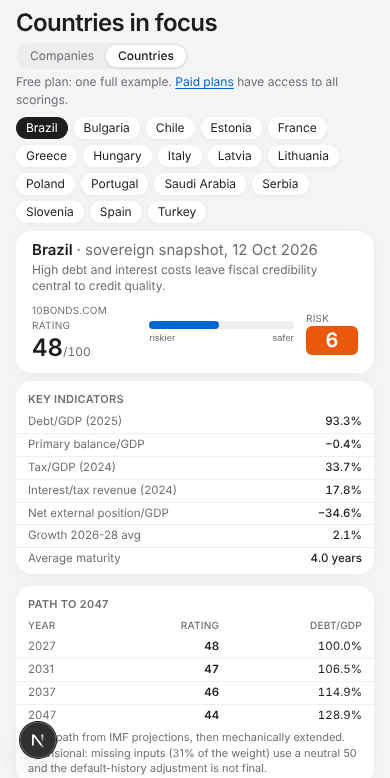
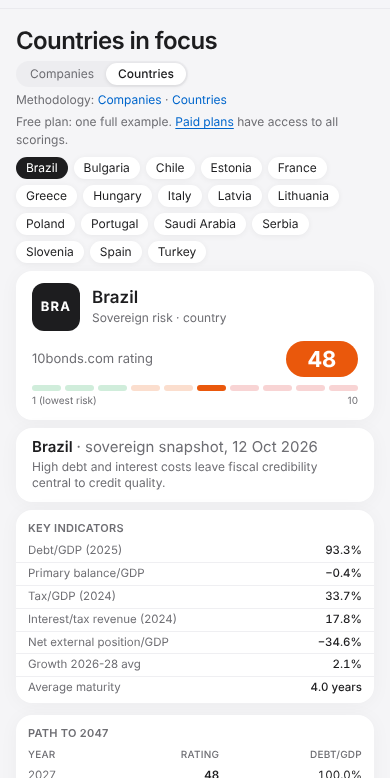
Rating highlight (oval + 1-10 scale) on country and company pages, one shared layout; refresh carousel country picture
Claude-Session: https://claude.ai/code/session_017ZNMD7A72R8vhZW5ZS7b4r

Changed region(s): [[0.0308, 0.401, 0.9231, 1.0], [0.0308, 0.0, 0.8615, 0.4627], [0.4615, 0.8021, 0.4923, 0.8329]]

diff --git a/components/CompanyFocus.tsx b/components/CompanyFocus.tsx
@@ -1,61 +1,23 @@
 import Link from "next/link";
-import FocusTabs from "@/components/FocusTabs";
-import { RiskBadge } from "@/components/RiskBadge";
+import FocusShell, { card, head } from "@/components/FocusShell";
 import { COMPANIES_IN_FOCUS, type FocusCompany } from "@/lib/companiesInFocus";
 
-const card = "overflow-hidden rounded-2xl bg-white shadow-[0_2px_20px_rgba(0,0,0,0.04)]";
-const head = "px-3 pb-1 pt-2.5 text-[11px] font-semibold uppercase tracking-wide text-mute";
 const td = "px-3 py-[3px] align-top";
 
-/** Risk assessment page body: the company tabs, the headline facts and the full scoring (paid plans, or the free example). */
+/** Risk assessment, companies: same layout as the country pages, with the corporate dimensions. */
 export default function CompanyFocus({ c, paid }: { c: FocusCompany; paid: boolean }) {
-  const open = paid || c.free === true;
-  const stats: [string, React.ReactNode][] = [
-    ["Credit score", <span key="s" className="text-xl font-semibold tabular-nums">{c.score}<span className="text-[12px] font-normal text-mute">/100</span></span>],
-    ["Risk", <RiskBadge key="r" risk={c.risk} size="lg" />],
-    ["Our view", c.view],
-    ["Return (per year), gross", c.ytm],
-    ["Outlook", c.outlook],
-    ["Seniority", c.seniority],
-    ["Maturity", c.maturity],
-  ];
+  const nav = COMPANIES_IN_FOCUS.map((x) => ({ key: x.isin, href: `/risk-assessment/${x.isin}`, label: x.name, current: x.isin === c.isin, locked: !x.free, free: x.free }));
   return (
-    <article className="mx-auto max-w-6xl" data-testid="company-focus">
-      <div className="mt-1 flex flex-wrap items-baseline gap-x-4 gap-y-1">
-        <h1 className="text-2xl font-semibold tracking-tight">Companies in focus</h1>
-        <FocusTabs active="companies" />
-        <p className="text-[12px] text-mute">Free plan: one full example. <Link href="/pricing" className="text-accent hover:underline">Paid plans</Link> have access to all scorings.</p>
-      </div>
-      <nav className="mt-2 flex flex-wrap gap-1.5 text-[12px]" aria-label="Companies">
-        {COMPANIES_IN_FOCUS.map((x) => (
-          <Link key={x.isin} href={`/risk-assessment/${x.isin}`} data-testid="focus-tab"
-            className={`rounded-full px-3 py-1 ${x.isin === c.isin ? "bg-ink text-white" : "bg-white text-ink shadow-[0_1px_6px_rgba(0,0,0,0.06)] hover:bg-line/40"}`}>
-            {x.name}{!paid && !x.free ? " 🔒" : x.free && !paid ? " · free" : ""}
-          </Link>
-        ))}
-      </nav>
-
-      <section className={`${card} mt-2 px-4 py-2`}>
-        <p className="text-[15px] font-semibold leading-tight">{c.name} <span className="font-normal text-mute">· {c.isin} · {c.issuer} · updated {c.updated}</span> <Link href={`/report/${c.isin}`} className="ml-1 text-[12px] font-normal text-accent hover:underline">Full report</Link></p>
-        <dl className="mt-1.5 grid grid-cols-2 gap-x-5 gap-y-1.5 sm:grid-cols-4 lg:grid-cols-7">
-          {stats.map(([k, v]) => (
-            <div key={k} className="min-w-0">
-              <dt className="text-[10px] uppercase tracking-wide text-mute">{k}</dt>
-              <dd className="flex h-7 items-center text-[13px] font-medium leading-tight">{v}</dd>
-            </div>
-          ))}
-        </dl>
-        <p className="mt-1 text-[12px] leading-snug text-mute">{open ? c.summary : `Main risks: ${c.risksShort}.`}</p>
-      </section>
-
-      {open ? <Body c={c} /> : (
-        <section className={`${card} mt-3 px-4 py-6 text-center`} data-testid="focus-locked">
-          <p className="text-[15px] font-medium">The full {c.name} scoring is on paid plans</p>
-          <p className="mt-1 text-[12px] text-mute">Terms, prices, financials, credit scorecard, tax and our view for every company in focus.</p>
-          <Link href="/pricing" className="mt-3 inline-block rounded-full bg-accent px-5 py-2 text-[13px] font-medium text-white">See plans</Link>
-        </section>
-      )}
-    </article>
+    <FocusShell kind="companies" testId="company-focus" nav={nav} paid={paid} open={paid || c.free === true}
+      header={{ tile: c.name.slice(0, 4).toUpperCase(), name: c.issuer, sub: `${c.name} · ${c.isin}`, score: c.score, risk: c.risk }}
+      snapshot={{
+        title: <>{c.name} <span className="font-normal text-mute">· corporate snapshot, {c.updated}</span> <Link href={`/report/${c.isin}`} className="ml-1 text-[12px] font-normal text-accent hover:underline">Full report</Link></>,
+        text: paid || c.free ? c.summary : `Main risks: ${c.risksShort}.`,
+      }}
+      lockedTitle={`The full ${c.name} scoring is on paid plans`}
+      lockedText="Key financials, credit scorecard, terms, tax and our view for every company in focus.">
+      <Body c={c} />
+    </FocusShell>
   );
 }
 
@@ -75,43 +37,35 @@ function Table({ rows, cols }: { rows: (string | number)[][]; cols?: string[] })
 function Body({ c }: { c: FocusCompany }) {
   const [fh, ...fin] = c.financials;
   return (
-    <div className="mt-2 grid gap-3 md:grid-cols-2 lg:grid-cols-[1fr_1.1fr_1fr_1fr]">
+    <div className="mt-2 grid gap-3 md:grid-cols-2 lg:grid-cols-[1.25fr_1fr_1fr_1.3fr]">
       <div className="space-y-3">
+      <section className={card}>
+        <h2 className={head}>Key financials</h2>
+        <Table cols={fh} rows={fin} />
+        <p className="px-3 pb-2 pt-1 text-[11px] leading-snug text-mute">{c.financialsNote}</p>
+      </section>
         <section className={card}>
-          <h2 className={head}>Contractual terms</h2>
-          <dl className="divide-y divide-line/60 pb-1 text-[11.5px] leading-snug">
-            {c.terms.map(([k, v]) => <div key={k} className="grid grid-cols-[38%_62%] px-3 py-[3px]"><dt className="text-mute">{k}</dt><dd>{v}</dd></div>)}
-          </dl>
-        </section>
-        <section className={card}>
-          <h2 className={head}>Where it ranks</h2>
-          <div className="pb-1"><Table rows={c.capital} /></div>
+          <h2 className={head}>Withholding tax</h2>
+          <p className="px-3 pb-2 text-[11.5px] leading-snug text-mute">{c.tax}</p>
         </section>
       </div>
       <div className="space-y-3">
-        <section className={card}>
-          <h2 className={head}>Financial strength</h2>
-          <Table cols={fh} rows={fin} />
-          <p className="px-3 pb-2 pt-1 text-[11px] leading-snug text-mute">{c.financialsNote}</p>
-        </section>
+      <section className={card}>
+        <h2 className={head}>Credit scorecard</h2>
+        <ul className="divide-y divide-line/60 text-[11.5px] leading-snug">
+          {c.scorecard.map(([k, note, s]) => (
+            <li key={k} className="flex items-center gap-2 px-3 py-[3px]">
+              <div className="min-w-0 flex-1"><p>{k}</p><p className="text-[10.5px] text-mute">{note}</p></div>
+              <span className="w-7 text-right font-semibold tabular-nums">{s}</span>
+            </li>
+          ))}
+        </ul>
+        <p className="px-3 pb-2 pt-1 text-[11px] leading-snug text-mute">{c.scorecardNote} Composite {c.score}/100; outlook {c.outlook}, {c.outlookNote.toLowerCase()}.</p>
+      </section>
         <section className={card}>
           <h2 className={head}>Price and return quotes</h2>
           <Table cols={["Source", "Date", "Price", "Return"]} rows={c.quotes} />
           <p className="px-3 pb-2 pt-1 text-[11px] leading-snug text-mute">{c.quotesNote}</p>
-        </section>
-      </div>
-      <div className="space-y-3">
-        <section className={card}>
-          <h2 className={head}>Credit scorecard</h2>
-          <ul className="divide-y divide-line/60 text-[11.5px] leading-snug">
-            {c.scorecard.map(([k, note, s]) => (
-              <li key={k} className="flex items-center gap-2 px-3 py-[3px]">
-                <div className="min-w-0 flex-1"><p>{k}</p><p className="text-[10.5px] text-mute">{note}</p></div>
-                <span className="w-7 text-right font-semibold tabular-nums">{s}</span>
-              </li>
-            ))}
-          </ul>
-          <p className="px-3 pb-2 pt-1 text-[11px] leading-snug text-mute">{c.scorecardNote} Composite {c.score}/100; outlook {c.outlook}, {c.outlookNote.toLowerCase()}.</p>
         </section>
       </div>
       <div className="space-y-3">
@@ -122,12 +76,16 @@ function Body({ c }: { c: FocusCompany }) {
           </ul>
         </section>
         <section className={card}>
-          <h2 className={head}>Withholding tax</h2>
-          <p className="px-3 pb-2 text-[11.5px] leading-snug text-mute">{c.tax}</p>
-        </section>
-        <section className={card}>
-          <h2 className={head}>Our view</h2>
+          <h2 className={head}>Our view · {c.view}</h2>
           <p className="px-3 pb-2 text-[11.5px] leading-snug">{c.recommendation}</p>
+        </section>
+      </div>
+      <div className="space-y-3">
+        <section className={card}>
+          <h2 className={head}>Contractual terms</h2>
+          <dl className="divide-y divide-line/60 pb-1 text-[11.5px] leading-snug">
+            {c.terms.map(([k, v]) => <div key={k} className="grid grid-cols-[38%_62%] px-3 py-[3px]"><dt className="text-mute">{k}</dt><dd>{v}</dd></div>)}
+          </dl>
         </section>
       </div>
     </div>

diff --git a/components/CountryFocus.tsx b/components/CountryFocus.tsx
@@ -1,60 +1,18 @@
-import Link from "next/link";
-import FocusTabs from "@/components/FocusTabs";
-import { RiskBadge } from "@/components/RiskBadge";
+import FocusShell, { card, head } from "@/components/FocusShell";
 import { COUNTRIES_IN_FOCUS, YEARS, type CountryFocus as Country } from "@/lib/countriesInFocus";
 import { riskOfLr } from "@/lib/ratings";
 
-const card = "overflow-hidden rounded-2xl bg-white shadow-[0_2px_20px_rgba(0,0,0,0.04)]";
-const head = "px-3 pb-1 pt-2.5 text-[11px] font-semibold uppercase tracking-wide text-mute";
-
-/** Risk assessment, countries: the country tabs, the 10bonds.com rating and the full snapshot (paid plans, or the free example). */
+/** Risk assessment, countries: the 10bonds.com rating highlight and the full snapshot (paid plans, or the free example). */
 export default function CountryFocus({ c, paid }: { c: Country; paid: boolean }) {
-  const open = paid || c.free === true;
+  const nav = COUNTRIES_IN_FOCUS.map((x) => ({ key: x.slug, href: `/risk-assessment/countries/${x.slug}`, label: x.name, current: x.slug === c.slug, locked: !x.free, free: x.free }));
   return (
-    <article className="mx-auto max-w-6xl" data-testid="country-focus">
-      <div className="mt-1 flex flex-wrap items-baseline gap-x-4 gap-y-1">
-        <h1 className="text-2xl font-semibold tracking-tight">Countries in focus</h1>
-        <FocusTabs active="countries" />
-        <p className="text-[12px] text-mute">Free plan: one full example. <Link href="/pricing" className="text-accent hover:underline">Paid plans</Link> have access to all scorings.</p>
-      </div>
-      <nav className="mt-2 flex flex-wrap gap-1.5 text-[12px]" aria-label="Countries">
-        {COUNTRIES_IN_FOCUS.map((x) => (
-          <Link key={x.slug} href={`/risk-assessment/countries/${x.slug}`} data-testid="country-tab"
-            className={`rounded-full px-2.5 py-0.5 ${x.slug === c.slug ? "bg-ink text-white" : "bg-white text-ink shadow-[0_1px_6px_rgba(0,0,0,0.06)] hover:bg-line/40"}`}>
-            {x.name}{!paid && !x.free ? " 🔒" : x.free && !paid ? " · free" : ""}
-          </Link>
-        ))}
-      </nav>
-
-      <section className={`${card} mt-2 flex flex-wrap items-center gap-x-6 gap-y-2 px-4 py-2.5`}>
-        <div className="min-w-0 flex-1 basis-64">
-          <p className="text-[15px] font-semibold leading-tight">{c.name} <span className="font-normal text-mute">· sovereign snapshot, 12 Oct 2026</span></p>
-          <p className="mt-0.5 text-[12px] leading-snug text-mute">{c.headline}</p>
-        </div>
-        <div className="flex w-full items-center gap-3 sm:w-auto">
-          <div>
-            <p className="text-[10px] uppercase tracking-wide text-mute">10bonds.com rating</p>
-            <p className="text-2xl font-semibold leading-tight tabular-nums">{c.score}<span className="text-[12px] font-normal text-mute">/100</span></p>
-          </div>
-          <div className="w-40" aria-hidden>
-            <div className="h-2 rounded-full bg-line/70"><div className="h-2 rounded-full bg-accent" style={{ width: `${c.score}%` }} /></div>
-            <p className="mt-0.5 flex justify-between text-[9px] text-mute"><span>riskier</span><span>safer</span></p>
-          </div>
-          <div>
-            <p className="text-[10px] uppercase tracking-wide text-mute">Risk</p>
-            <RiskBadge risk={riskOfLr(c.score)} size="lg" />
-          </div>
-        </div>
-      </section>
-
-      {open ? <Body c={c} /> : (
-        <section className={`${card} mt-3 px-4 py-6 text-center`} data-testid="focus-locked">
-          <p className="text-[15px] font-medium">The full {c.name} scoring is on paid plans</p>
-          <p className="mt-1 text-[12px] text-mute">Key indicators, the path to 2047, early warnings, buffers and risks for every country in focus.</p>
-          <Link href="/pricing" className="mt-3 inline-block rounded-full bg-accent px-5 py-2 text-[13px] font-medium text-white">See plans</Link>
-        </section>
-      )}
-    </article>
+    <FocusShell kind="countries" testId="country-focus" nav={nav} paid={paid} open={paid || c.free === true}
+      header={{ tile: c.name.slice(0, 3).toUpperCase(), name: c.name, sub: "Sovereign risk · country", score: c.score, risk: riskOfLr(c.score) ?? 5 }}
+      snapshot={{ title: <>{c.name} <span className="font-normal text-mute">· sovereign snapshot, 12 Oct 2026</span></>, text: c.headline }}
+      lockedTitle={`The full ${c.name} scoring is on paid plans`}
+      lockedText="Key indicators, the path to 2047, early warnings, buffers and risks for every country in focus.">
+      <Body c={c} />
+    </FocusShell>
   );
 }
 

diff --git a/components/FocusShell.tsx b/components/FocusShell.tsx
@@ -1,0 +1,53 @@
+import Link from "next/link";
+import type { ReactNode } from "react";
+import FocusTabs from "@/components/FocusTabs";
+import RatingHeader from "@/components/RatingOval";
+
+export const card = "overflow-hidden rounded-2xl bg-white shadow-[0_2px_20px_rgba(0,0,0,0.04)]";
+export const head = "px-3 pb-1 pt-2.5 text-[11px] font-semibold uppercase tracking-wide text-mute";
+
+export type FocusNavItem = { key: string; href: string; label: string; current: boolean; locked: boolean; free?: boolean };
+
+/** One layout for country and company pages: tabs, picker, rating highlight, snapshot line, then the cards (or the paid-plan lock). */
+export default function FocusShell({ kind, testId, nav, paid, header, snapshot, open, lockedTitle, lockedText, children }: {
+  kind: "companies" | "countries";
+  testId: string;
+  nav: FocusNavItem[];
+  paid: boolean;
+  header: { tile: string; name: string; sub: string; score: number; risk: number };
+  snapshot: { title: ReactNode; text: string };
+  open: boolean;
+  lockedTitle: string;
+  lockedText: string;
+  children: ReactNode;
+}) {
+  return (
+    <article className="mx-auto max-w-6xl" data-testid={testId}>
+      <div className="mt-1 flex flex-wrap items-baseline gap-x-4 gap-y-1">
+        <h1 className="text-2xl font-semibold tracking-tight">{kind === "countries" ? "Countries" : "Companies"} in focus</h1>
+        <FocusTabs active={kind} />
+        <p className="text-[12px] text-mute">Free plan: one full example. <Link href="/pricing" className="text-accent hover:underline">Paid plans</Link> have access to all scorings.</p>
+      </div>
+      <nav className="mt-2 flex flex-wrap gap-1.5 text-[12px]" aria-label={kind === "countries" ? "Countries" : "Companies"}>
+        {nav.map((x) => (
+          <Link key={x.key} href={x.href} data-testid={kind === "countries" ? "country-tab" : "focus-tab"}
+            className={`rounded-full px-2.5 py-0.5 ${x.current ? "bg-ink text-white" : "bg-white text-ink shadow-[0_1px_6px_rgba(0,0,0,0.06)] hover:bg-line/40"}`}>
+            {x.label}{!paid && x.locked ? " 🔒" : x.free && !paid ? " · free" : ""}
+          </Link>
+        ))}
+      </nav>
+      <div className="mt-2"><RatingHeader {...header} /></div>
+      <section className={`${card} mt-2 px-4 py-2.5`}>
+        <p className="text-[15px] font-semibold leading-tight">{snapshot.title}</p>
+        <p className="mt-0.5 text-[12px] leading-snug text-mute">{snapshot.text}</p>
+      </section>
+      {open ? children : (
+        <section className={`${card} mt-3 px-4 py-6 text-center`} data-testid="focus-locked">
+          <p className="text-[15px] font-medium">{lockedTitle}</p>
+          <p className="mt-1 text-[12px] text-mute">{lockedText}</p>
+          <Link href="/pricing" className="mt-3 inline-block rounded-full bg-accent px-5 py-2 text-[13px] font-medium text-white">See plans</Link>
+        </section>
+      )}
+    </article>
+  );
+}

diff --git a/components/RatingOval.tsx b/components/RatingOval.tsx
@@ -1,0 +1,27 @@
+import { riskColor } from "@/components/RiskBadge";
+
+/** Highlight block at the top of a country or company page: tile, name, the 10bonds.com rating in an oval, and the 1-10 scale. */
+export default function RatingHeader({ tile, name, sub, score, risk }: { tile: string; name: string; sub: string; score: number; risk: number }) {
+  return (
+    <section className="rounded-2xl bg-white px-4 py-3 shadow-[0_2px_20px_rgba(0,0,0,0.04)]" data-testid="rating-header">
+      <div className="flex items-center gap-3">
+        <span className="flex h-12 w-12 shrink-0 items-center justify-center rounded-xl bg-ink text-[13px] font-bold tracking-widest text-white">{tile}</span>
+        <div className="min-w-0">
+          <h2 className="truncate text-[17px] font-semibold leading-tight">{name}</h2>
+          <p className="truncate text-[12px] text-mute">{sub}</p>
+        </div>
+      </div>
+      <div className="mt-2.5 flex items-center justify-between">
+        <span className="text-[13px] text-mute">10bonds.com rating</span>
+        <span data-testid="rating-oval" aria-label={`10bonds.com rating ${score} out of 100`} className="flex h-9 min-w-[72px] items-center justify-center rounded-[999px] px-4 text-[22px] font-bold leading-none tabular-nums text-white" style={{ background: riskColor(risk) }}>{score}</span>
+      </div>
+      <div className="mt-2 flex gap-1" aria-hidden>
+        {Array.from({ length: 10 }, (_, i) => {
+          const c = riskColor(i + 1);
+          return <span key={i} className="h-1.5 flex-1 rounded-full" style={{ background: c, opacity: i + 1 === risk ? 1 : 0.2 }} />;
+        })}
+      </div>
+      <div className="mt-0.5 flex justify-between text-[10px] text-mute"><span>1 (lowest risk)</span><span>10</span></div>
+    </section>
+  );
+}
